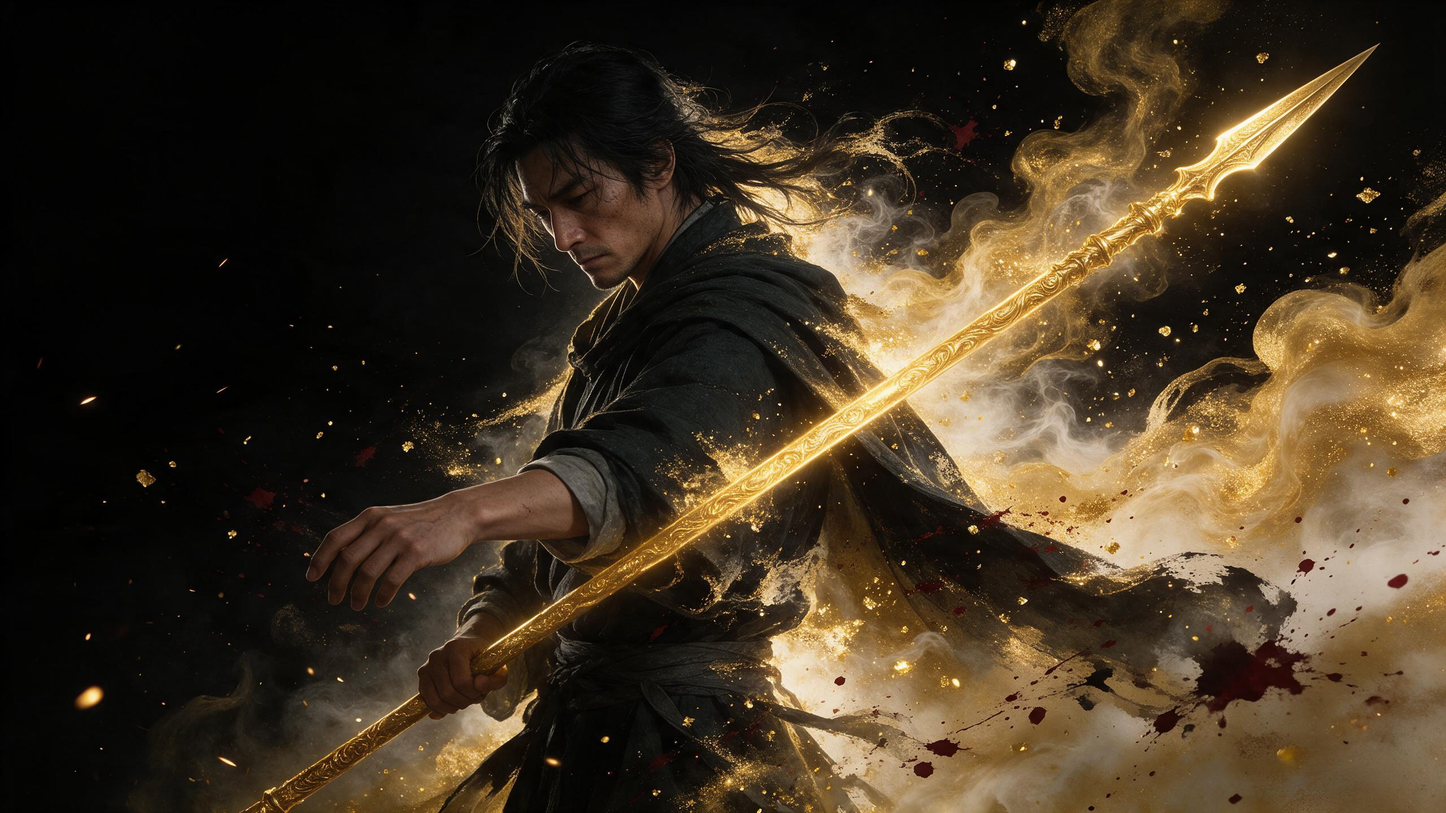
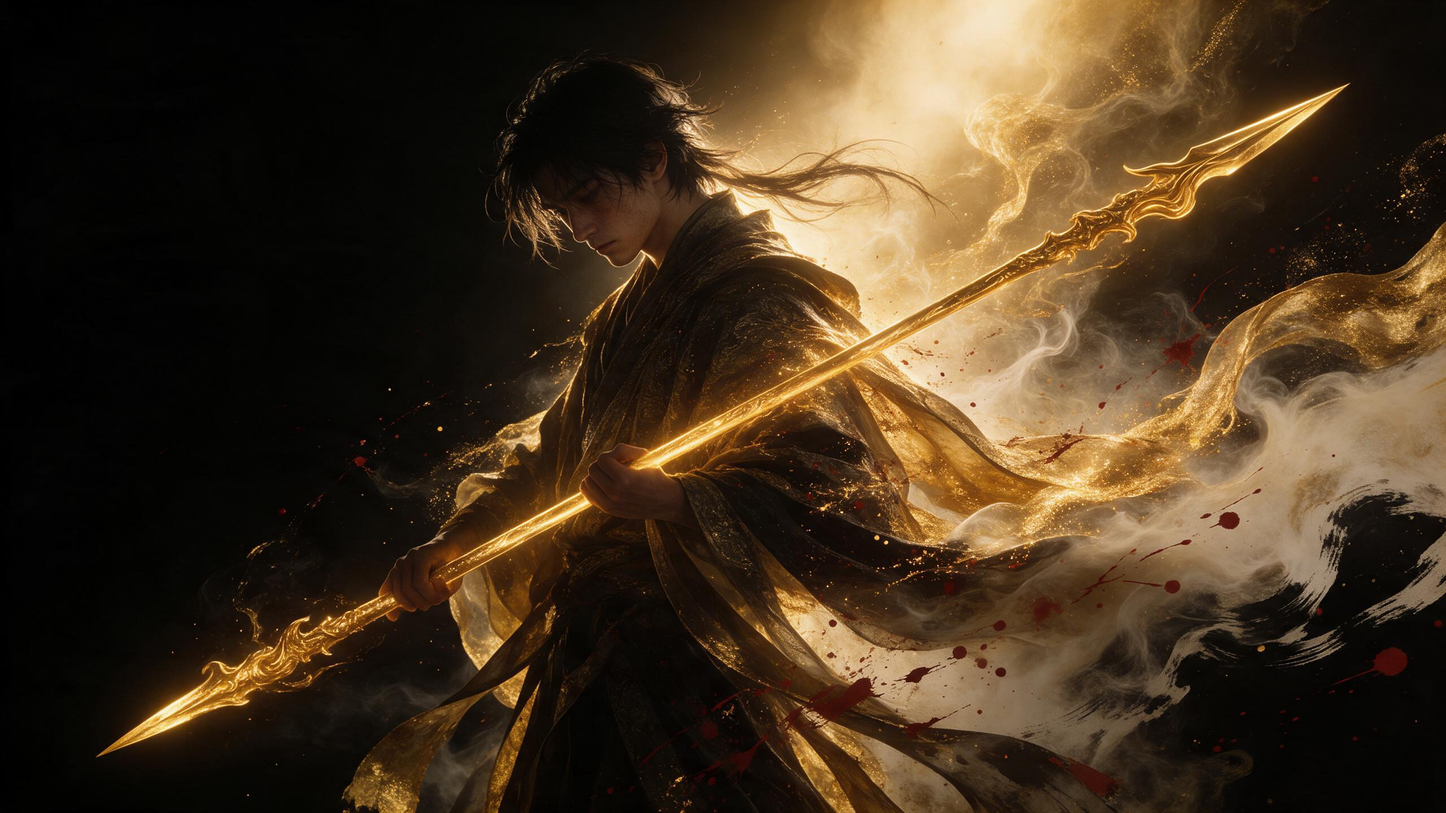
dynamic-wallpaper: regenerate stills at age 22-26
The user wants the melancholy, strong-boned look but younger (22-26),
without stubble or a weathered face. Replace both stills and prompts,
update the per-image parameters, and record the age range and the
"don't look old" rule in CLAUDE.md. The silver still now uses a plain
face-centred falloff mask because both rembg models mis-segment it.

Claude-Session: https://claude.ai/code/session_01Su5woFXfsaoJ8K17D5Tbvh

diff --git a/dynamic-wallpaper/README.md b/dynamic-wallpaper/README.md
@@ -21,7 +21,7 @@ python -c "from rembg import remove, new_session; from PIL import Image; \
   remove(Image.open('melancholy_spear_still.jpg').convert('RGB').resize((1280, 720)), \
   session=new_session('isnet-general-use'), only_mask=True).save('mask.png')"
 python animate.py melancholy_spear_still.jpg mask.png out.mp4 \
-  --center 0.5,0.55 --focus 0.40,0.30 --spear 0.1675,1.0,0.9525,0.058
+  --center 0.45,0.53 --focus 0.40,0.27 --spear 0.07,0.929,0.945,0.107
 ```
 
 `animate.py` 的参数（坐标都是 0~1 的相对位置）：
@@ -42,11 +42,11 @@ python animate.py melancholy_spear_still.jpg mask.png out.mp4 \
 
 | 静图 | 提示词 | 遮罩 | 参数 |
 |---|---|---|---|
-| `melancholy_spear_still.jpg` 忧郁剑客（金） | `prompt_melancholy_spear.txt` | isnet-general-use | `--center 0.5,0.55 --focus 0.40,0.30 --spear 0.1675,1.0,0.9525,0.058` |
-| `silver_ink_still.jpg` 银墨侧脸 | `prompt_silver_ink.txt` | u2net_human_seg × 以脸为中心的径向衰减（见下） | `--center 0.6,0.4 --focus 0.58,0.42 --tint 1.0,0.93,0.85 --travel 72` |
-| `golden_spear_still.jpg` 第一版（脸太嫩，已弃用） | `prompt_golden_spear.txt` | isnet-general-use | `--center 0.46,0.55 --focus 0.47,0.42 --spear 0.087,0.752,0.928,0.323` |
+| `melancholy_spear_still.jpg` 忧郁剑客（金，约 24 岁） | `prompt_melancholy_spear.txt` | isnet-general-use | `--center 0.45,0.53 --focus 0.40,0.27 --spear 0.07,0.929,0.945,0.107` |
+| `silver_ink_still.jpg` 银墨侧脸（约 24 岁） | `prompt_silver_ink.txt` | 以脸为中心的圆形渐隐遮罩（见下） | `--center 0.62,0.45 --focus 0.60,0.47 --tint 1.0,0.93,0.85 --travel 72` |
+| `golden_spear_still.jpg` 第一版（脸太嫩、偶像感，已弃用） | `prompt_golden_spear.txt` | isnet-general-use | `--center 0.46,0.55 --focus 0.47,0.42 --spear 0.087,0.752,0.928,0.323` |
 
-**遮罩要先看一眼再用。** 银墨侧脸那张，isnet 把亮的水浪当成了主体，脸几乎没抠到，直接用会变成水不动、脸在流。改用 `u2net_human_seg` 后能抠到整个头，再乘一个以脸为中心（0.61, 0.42）、半径 0.16 到 0.30 渐隐的权重，脸完全锁住，外圈的头发和烟雾仍然能飘。
+**遮罩要先看一眼再用。** 银墨侧脸这类图，人物和水浪融在一起：isnet 会把亮的水浪当成主体、几乎抠不到脸；`u2net_human_seg` 又会把大半个画面都当成人。最后用的是以脸为中心（0.62, 0.47）、半径 0.12 内完全锁住、到 0.22 渐隐的圆形遮罩：脸不动，外圈的头发和水流照常流动。
 
 ## 原理
 

diff --git a/CLAUDE.md b/CLAUDE.md
@@ -16,7 +16,8 @@
 
 用户给过参考图（水墨风闭眼少年、炭笔风低头女生、银白水流化身的低头女子），只记大方向，生图时不必照搬。
 
-- **喜欢**：忧郁的面部轮廓和神情。成熟、骨相分明（眉骨、颧骨、下颌线），垂眸或闭眼，凌乱碎发遮住眉眼，薄唇紧抿，安静、隐忍。男女都可以
+- **年龄**：22~26 岁。年轻，但不稚嫩
+- **喜欢**：忧郁的面部轮廓和神情。骨相分明（眉骨、颧骨、下颌线），垂眸或闭眼，凌乱碎发遮住眉眼，薄唇紧抿，安静、隐忍。男女都可以
 - **质感**：水墨或炭笔笔触，冷色调（墨蓝、银灰），流动的水或烟雾
-- **不要**：稚嫩的脸、偶像男团式的粉嫩妆感、磨皮美颜、"娘"气
+- **不要**：稚嫩的脸、偶像男团式的粉嫩妆感、磨皮美颜、"娘"气；也不要显老（胡茬、皱纹、沧桑脸，30 岁以上的感觉）
 - 写提示词时把"不要"的部分也写进去（Seedream 没有单独的反向提示词参数）
